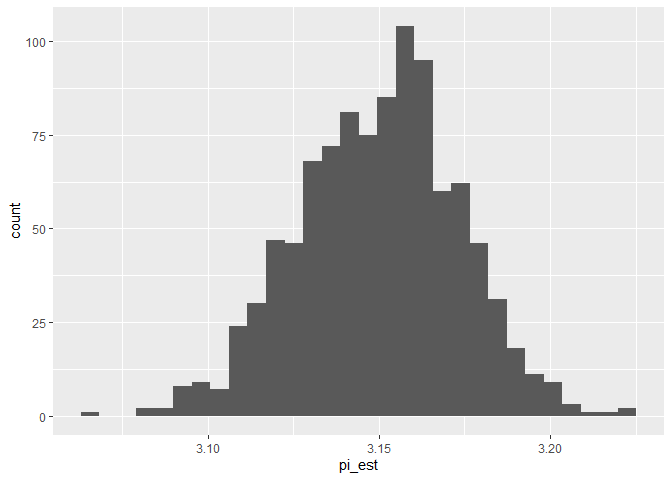
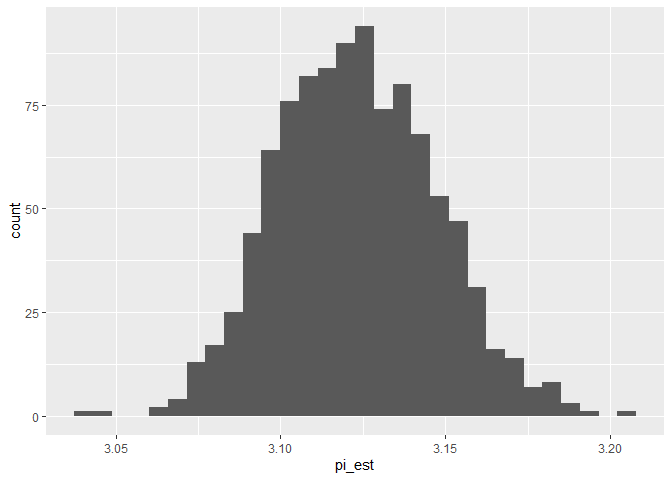
revise c07

diff --git a/data-science-curriculum-build/challenges/c07-monte-carlo-assignment.md b/data-science-curriculum-build/challenges/c07-monte-carlo-assignment.md
@@ -206,16 +206,16 @@ df_q1
     ## # A tibble: 5,000 × 2
     ##         x      y
     ##     <dbl>  <dbl>
-    ##  1 0.0198 0.237 
-    ##  2 0.635  0.248 
-    ##  3 0.615  0.297 
-    ##  4 0.173  0.602 
-    ##  5 0.786  0.880 
-    ##  6 0.670  0.0520
-    ##  7 0.147  0.757 
-    ##  8 0.861  0.973 
-    ##  9 0.0819 0.854 
-    ## 10 0.496  0.651 
+    ##  1 0.385  0.660 
+    ##  2 0.164  0.880 
+    ##  3 0.699  0.747 
+    ##  4 0.933  0.268 
+    ##  5 0.847  0.0611
+    ##  6 0.373  0.155 
+    ##  7 0.546  0.226 
+    ##  8 0.0787 0.189 
+    ##  9 0.505  0.305 
+    ## 10 0.395  0.284 
     ## # ℹ 4,990 more rows
 
 Use the following to check that you’ve used the correct variable names.
@@ -313,13 +313,18 @@ print("Your assertions passed, but make sure they're checking the right thing!")
 
 - You chose a correct value of `stat(x, y)` when `x, y` is *outside* the
   circle. Why did you choose this value?
-  - 1,1 is on the outside margin of the circle
+  - 1,1 is on the outside margin of the circle - this means that
+    stat(x, y) returns 0. This means that points outside the circle
+    won’t impact our estimation
 - You chose a correct value of `stat(x, y)` when `x, y` is *inside* the
   circle. Why did you choose this value?
   - 0.5, 0.5 is comfortably inside the circle. Its a nice round even
     number
   - I also tried 0,1, which my code reads as inside the circle just to
     confirm the \<= was working as intended.
+  - For these values stat(x, y) returns 4, based on the equation above
+    in the background section. Since the area of a quarter circle is
+    pi/4 we have to multiple by 4 in order to get areas.
 
 ### **q3** Estimate $\pi$
 
@@ -337,7 +342,7 @@ df_q3
     ## # A tibble: 1 × 1
     ##   pi_est
     ##    <dbl>
-    ## 1   3.15
+    ## 1   3.12
 
 Use the following to check that you’ve used the correct variable names.
 (NB. This does not check correctness.)
@@ -417,7 +422,7 @@ df_q4 %>%
 
 - What is a range of plausible values, based on the sampling
   distribution you’ve generated?
-  - Pi is likely somewhere between 3.1 and 3.15. Its almost definitely
+  - Pi is likely somewhere between 3.1 and 3.18. Its almost definitely
     more than 3 and less than 3.25. As I submit the assignment, I’m
     realizing the random values change every time I knit, but that range
     seems pretty inclusive.
@@ -447,7 +452,7 @@ df_q5
     ## # A tibble: 1 × 2
     ##   pi_lo pi_up
     ##   <dbl> <dbl>
-    ## 1  3.10  3.19
+    ## 1  3.08  3.17
 
 ### **q6** CLT confidence interval
 
@@ -488,7 +493,7 @@ df_q1 %>%
     ## # A tibble: 1 × 6
     ##    mean    sd     n     se pi_lo pi_up
     ##   <dbl> <dbl> <int>  <dbl> <dbl> <dbl>
-    ## 1  3.15  1.64  5000 0.0231  3.10  3.19
+    ## 1  3.12  1.65  5000 0.0234  3.08  3.17
 
 **Observations**:
 
